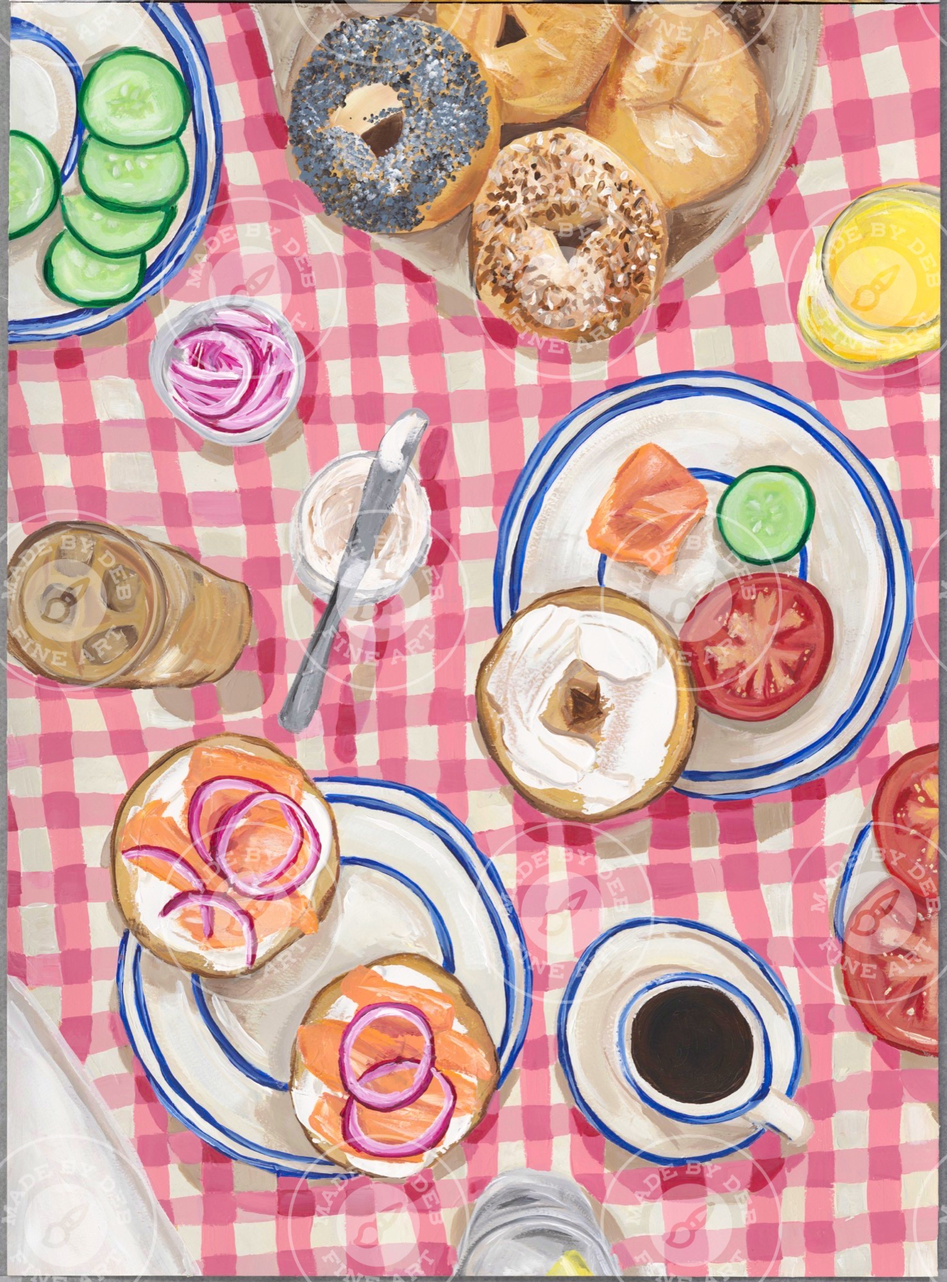
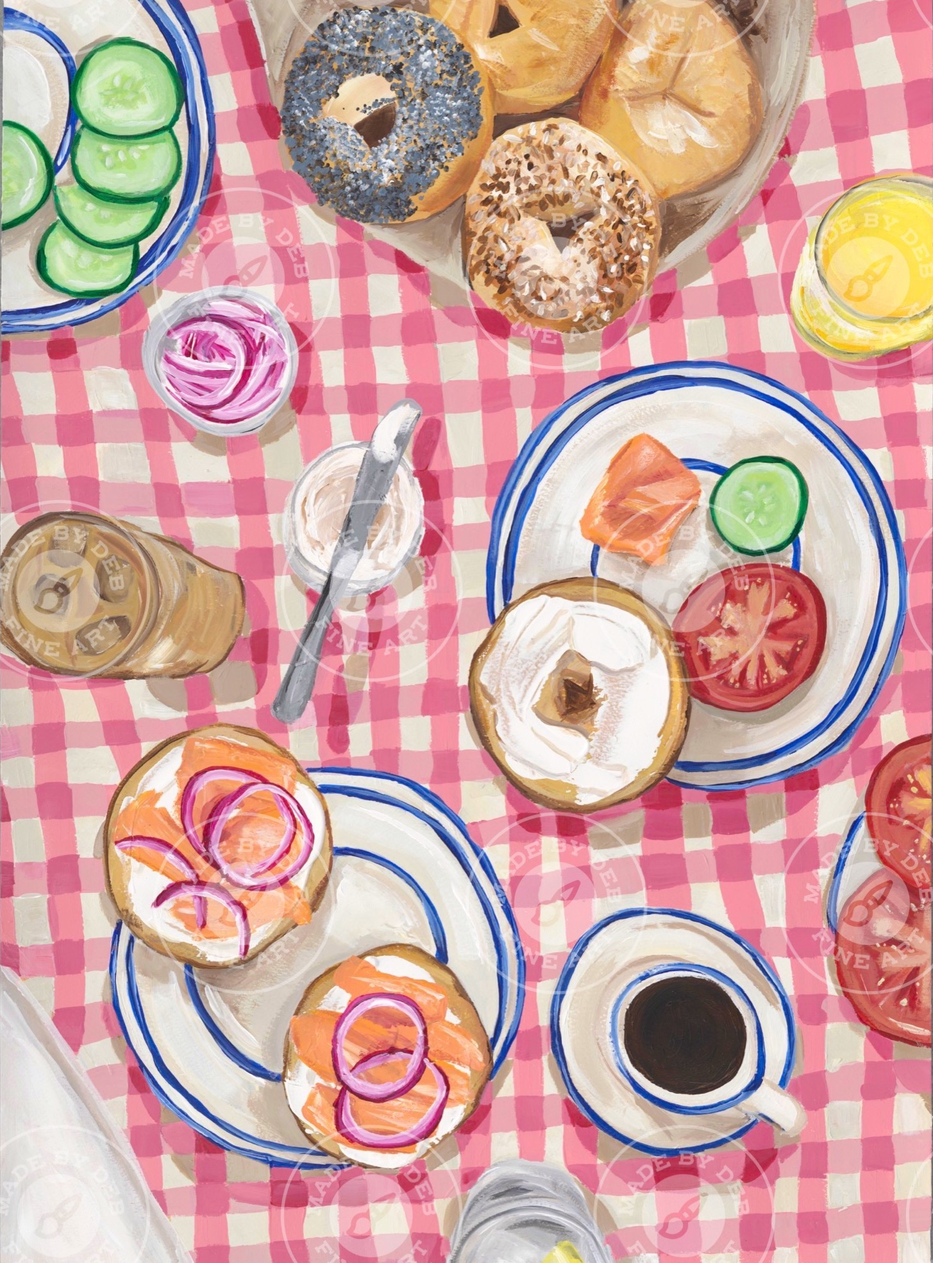
Crop the thin gray edge off the prints that had one.

diff --git a/works.js b/works.js
@@ -7,8 +7,8 @@ window.WORKS = [
     id: "mbd-2025-001",
     title: "Breakfast at Viand",
     sizes: ["22 × 30 in"],
-    thumb: "images/thumbs/MBD-2025-001.jpg?v=20261008f",
-    image: "images/MBD-2025-001.jpg?v=20261008f",
+    thumb: "images/thumbs/MBD-2025-001.jpg?v=20261009",
+    image: "images/MBD-2025-001.jpg?v=20261009",
     width: 1454,
     height: 2000,
   },
@@ -16,8 +16,8 @@ window.WORKS = [
     id: "mbd-2025-002",
     title: "Seafood Lunch No. 1",
     sizes: ["22 × 30 in"],
-    thumb: "images/thumbs/MBD-2025-002.jpg?v=20261008f",
-    image: "images/thumbs/MBD-2025-002.jpg?v=20261008f",
+    thumb: "images/thumbs/MBD-2025-002.jpg?v=20261009",
+    image: "images/thumbs/MBD-2025-002.jpg?v=20261009",
     width: 703,
     height: 960,
   },
@@ -25,36 +25,36 @@ window.WORKS = [
     id: "mbd-2025-003",
     title: "Steak Dinner No. 1",
     sizes: ["22 × 30 in"],
-    thumb: "images/thumbs/MBD-2025-003.jpg?v=20261008f",
-    image: "images/MBD-2025-003.jpg?v=20261008f",
-    width: 1472,
-    height: 2000,
+    thumb: "images/thumbs/MBD-2025-003.jpg?v=20261009",
+    image: "images/MBD-2025-003.jpg?v=20261009",
+    width: 1458,
+    height: 1980,
   },
   {
     id: "mbd-2026-001",
     title: "Italian Dinner No. 1",
     sizes: ["12 × 12 in"],
-    thumb: "images/thumbs/MBD-2026-001.jpg?v=20261008f",
-    image: "images/MBD-2026-001.jpg?v=20261008f",
-    width: 2000,
-    height: 2017,
+    thumb: "images/thumbs/MBD-2026-001.jpg?v=20261009",
+    image: "images/MBD-2026-001.jpg?v=20261009",
+    width: 1970,
+    height: 1954,
   },
   {
     id: "mbd-2026-002",
     title: "Bagels Breakfast Spread",
     sizes: ["22 × 30 in"],
-    thumb: "images/thumbs/MBD-2026-002.jpg?v=20261008f",
-    image: "images/MBD-2026-002.jpg?v=20261008f",
-    width: 1477,
-    height: 2000,
+    thumb: "images/thumbs/MBD-2026-002.jpg?v=20261009",
+    image: "images/MBD-2026-002.jpg?v=20261009",
+    width: 1455,
+    height: 1970,
   },
   {
     id: "mbd-2026-003",
     title: "New York City Deli",
     sizes: ["18 × 24 in"],
-    thumb: "images/thumbs/MBD-2026-003.jpg?v=20261008f",
-    image: "images/MBD-2026-003.jpg?v=20261008f",
-    width: 1524,
-    height: 2000,
+    thumb: "images/thumbs/MBD-2026-003.jpg?v=20261009",
+    image: "images/MBD-2026-003.jpg?v=20261009",
+    width: 1487,
+    height: 1951,
   },
 ];

diff --git a/index.html b/index.html
@@ -92,7 +92,7 @@
       </div>
     </div>
 
-    <script src="works.js?v=20261008f"></script>
+    <script src="works.js?v=20261009"></script>
     <script src="script.js?v=20261008c"></script>
   </body>
 </html>
